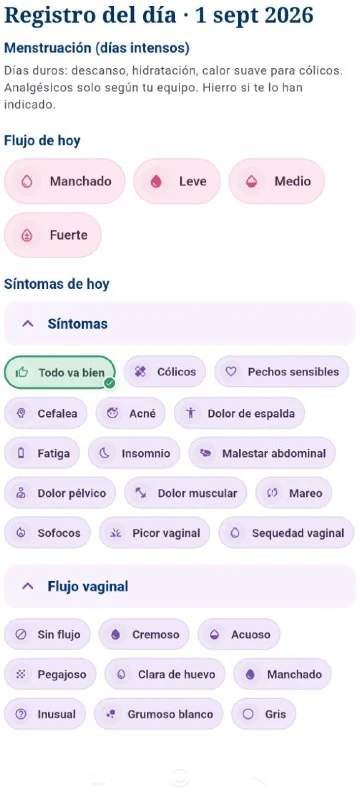
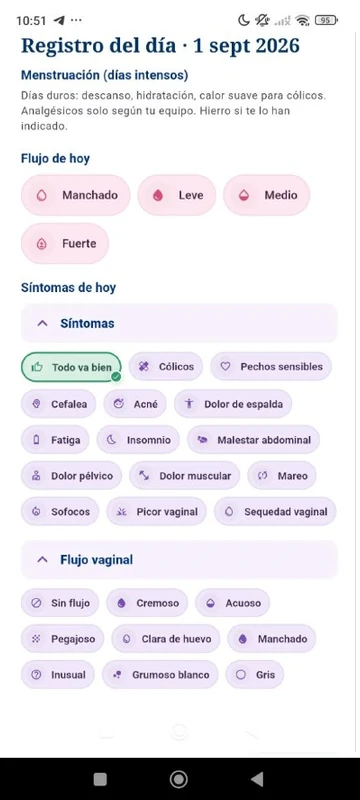
Add Android system chrome to cycle registration screenshot.
Composite the daily cycle log capture with status bar and navigation buttons to match other gallery shots.

Changed region(s): [[0.0, 0.0625, 1.0, 1.0], [0.0, 0.0, 0.9472, 0.3125], [0.4889, 0.1875, 0.9167, 0.2812]]

diff --git a/src/i18n/types.ts b/src/i18n/types.ts
@@ -150,7 +150,7 @@ export const screenshotFiles: Record<string, string> = {
 	'parte-historial': '/screenshots/pills-parte-historial.webp',
 	constantes: '/screenshots/pills-constantes.webp',
 	ciclo: '/screenshots/pills-ciclo.webp',
-	'ciclo-registro': '/screenshots/pills-ciclo-registro.webp',
+	'ciclo-registro': '/screenshots/pills-registro-ciclo-dia.webp',
 	'ciclo-informe': '/screenshots/pills-informe-ciclo-menstrual.webp',
 	perfil: '/screenshots/pills-perfil.webp',
 };
